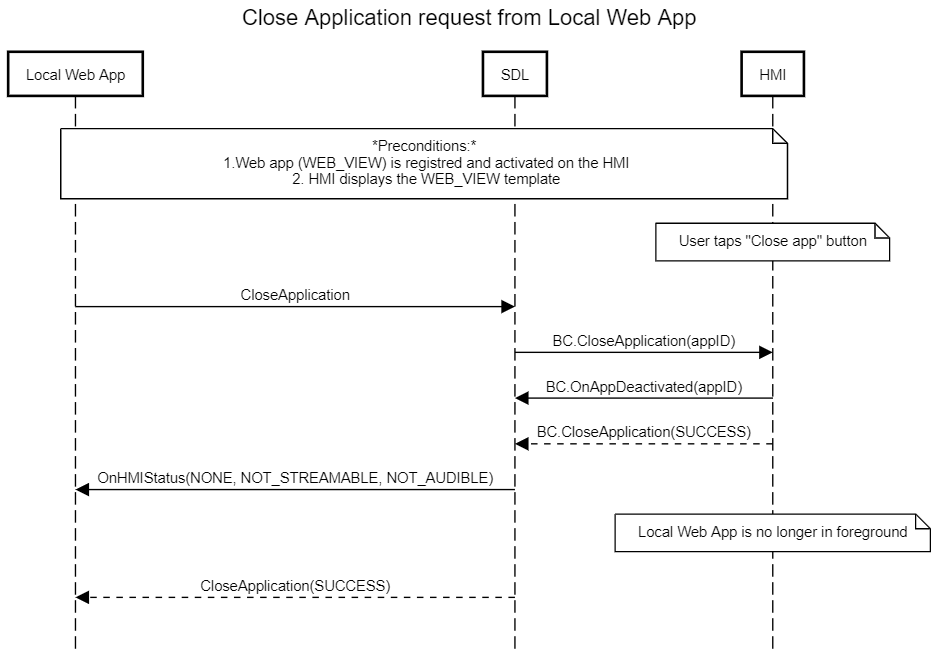
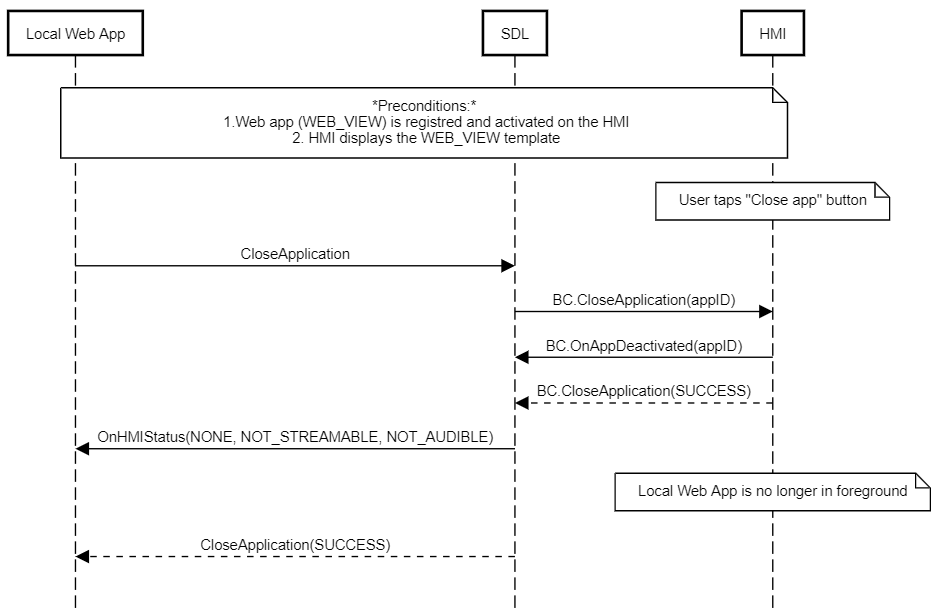
Adding assets
UI.[Alert/CreateWindow], SDL.ActivateApp

diff --git a/docs/UI/Alert/index.md b/docs/UI/Alert/index.md
@@ -84,6 +84,11 @@ Alert BOTH UI Closed before <abbr title="Text To Speech">TTS</abbr> finishes Spe
 ![Alert](./assets/AlertTTS.png)
 |||
 
+|||
+Alert sent by Local Web App  
+![Alert Local Web App](./assets/AlertLocalWebApp.png)
+|||
+
 ### JSON Message Examples
 
 #### Example Request

diff --git a/docs/UI/CreateWindow/index.md b/docs/UI/CreateWindow/index.md
@@ -55,6 +55,11 @@ CreateWindow
 ![CreateWindow](./assets/CreateWindow.png)
 |||
 
+|||
+Local Web App(WEB_VIEW) creates a widget that duplicates main window  
+![CreateWindow Local Web App](./assets/CreateWindowLocalWebApp)
+|||
+
 ### JSON Message Examples
 
 #### Example Request

diff --git a/docs/SDL/ActivateApp/index.md b/docs/SDL/ActivateApp/index.md
@@ -86,6 +86,11 @@ The User activates a web app
 ![ActivateApp](./assets/ActivateWebApp.png)
 |||
 
+|||
+Web Application Activation  
+![ActivateApp Local Web App](./assets/ActivateAppLocalWebApp)
+|||
+
 ### JSON Message Examples
 
 #### Example Request

diff --git a/docs/BasicCommunication/CloseApplication/index.md b/docs/BasicCommunication/CloseApplication/index.md
@@ -49,6 +49,7 @@ Close Application after Failed Data Consent Prompt
 |||
 
 |||
+Close Application request from Local Web App  
 ![Close Application Local Web App](./assets/CloseApplicationLocalWebApp.png)
 |||
 
